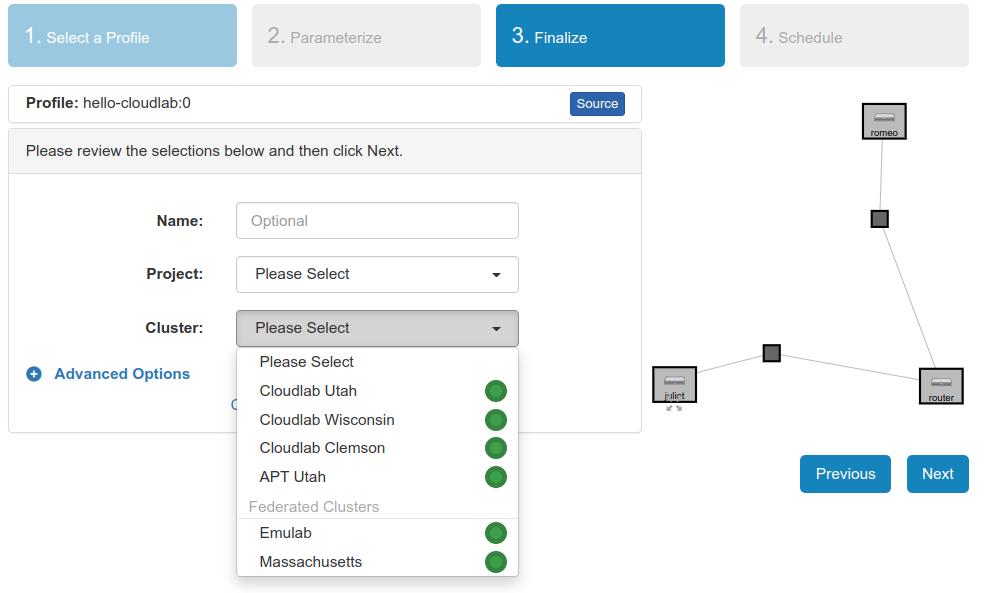
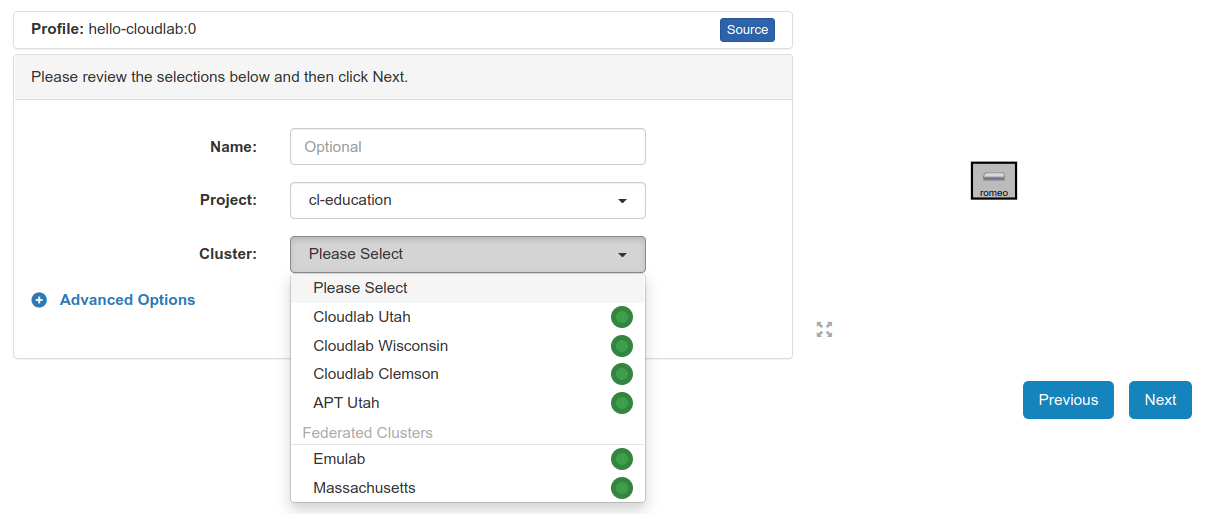
Update experiment

diff --git a/profile.py b/profile.py
@@ -18,7 +18,7 @@ pc = portal.Context()
 request = pc.makeRequestRSpec()
 
 # Set up first host - romeo
-node_romeo = request.XenVM("romeo")
+node_romeo = request.RawPC("romeo")
 node_romeo.startVNC()
 
 # Print the RSpec to the enclosing page.

diff --git a/index.md b/index.md
@@ -107,7 +107,7 @@ This property can be exploited for authenticating login to a remote machine. Fir
 1. You use a special argument with your SSH command to let your SSH application know that you are going to use a key, and the location of your private key. If the private key is protected by a passphrase, you may be prompted to enter the passphrase (this is not a password for the remote machine, though.)
 2. The machine you are logging in to will ask your SSH client to "prove" that it owns the (secret) private key that matches an authorized public key. To do this, the machine will send a random message to you.
 3. Your SSH client will encrypt the random message with the private key and send it back to the remote machine.
-5. The remote machine will decrypt the message with your public key. If the decrypted message matches the message it sent you, it has "proof" that you are in possession of the private key for that key pair, and will grant you access (without using an account password on the remote machine.)
+4. The remote machine will decrypt the message with your public key. If the decrypted message matches the message it sent you, it has "proof" that you are in possession of the private key for that key pair, and will grant you access (without using an account password on the remote machine.)
 
 (Of course, this relies on you keeping your private key a secret.)
 
@@ -200,57 +200,155 @@ Whenever you run an experiment on CloudLab, you will
 
 Also, when you finish an experiment and have saved all the data somewhere safe, you will _delete_ the resources in your experiment to free them for use by other experimenters.
 
-### Exercise - Open a profile
+### Exercise - Open and instantiate a profile
 
 For this experiment, we will use the CloudLab profile available at the following link: https://www.cloudlab.us/p/cl-education/hello-cloudlab
 
 You'll see a brief description of the profile:
 
 ![Description of profile.](images/profile-1.png)
-### Exercise - Instantiate a profile
+
+Click "Next". On the following page, you'll see a diagram of your experiment topology (on the right - in this case, a single host named "romeo"),
+and on the left you'll be asked to select the "Cluster" on which you want your experiment to run:
+
+![Cluster selection.](images/profile-3.png)
+
+Unless otherwise specified, these experiments can run on any cluster. However, since CloudLab is a shared resource, on some occasionas the cluster you select might not have enough available resources to support your experiment. The status indicator next to each cluster tells you roughly how heavily utilized it is at the moment - green indicates that there are not many users, orange means heavy load, and red means that it is almost fully utilized. You are more likely to be successful if you choose a cluster with a green indicator.
+
+After you select a cluster, you can leave the "Name" field blank, or give your experiment a name - it's your choice. Then, click "Next".
+
+![Set experiment duration.](images/profile-4.png)
+
+On the last page, you'll be asked to set the duration of your experiment. At the end of this duration, your resources will be deleted automatically - so make sure to give yourself enough time to finish.
+
+You can leave the start date/time on this page blank if you are ready to work on the experiment right now. 
+
+When you have made all your choices, click "Finish" to ask CloudLab to reserve resources according to your configuration.
 
 ### Exercise - Wait for resources to be ready 
 
-Once you have successfully instantiated a profile, it will still take some time before your resources are ready for you to log in. To see resource status...
+Once you have successfully instantiated a profile, it will still take some time before your resources are ready for you to log in.
 
-This may take some time. 
+As your resources come online, you'll see their progress on the CloudLab experiment page:
 
-> **What if it fails?** If the CloudLab site is unable to bring up the resources you requested (even if the request "finishes"), it may say "Resources at X have failed" on the slice page, and you may get an email telling you that your VMs failed to boot. If this happens, delete the resources (use the "Delete" button at the bottom of the canvas). Then, try to reserve your resources again with a different aggregate.
+![Instantiation progress.](images/instantiate-0.png)
+
+As time passes, you will see a diagram of your experiment, but initially the hosts in the experiment will be colored yellow - this indicates that they're not ready to use yet. There's also a small "-" icon in the top right corner of the host - this indicates that it is not yet fully configured.
+
+![Instantiation progress.](images/instantiate-1.png)
+
+It can take a while for hosts to boot up and load their configurations - you may want to step away or work on something else for 15-20 minutes and then check back.
+
+At some point, the host will turn green, but it may have a "." icon in the top right - this indicates that it is still being configured.
+
+![Instantiation progress.](images/instantiate-2.png)
+
+
+Eventually, the host will be "green" with a "✓" icon in the top right corner. This shows that it is ready to use, and you can go on to the next step.
+
+![Instantiation complete.](images/instantiate-3.png)
+
+> **What if it fails?** If the CloudLab site is unable to bring up the resources you requested, the hosts will turn red instead of green. If this happens, delete the resources (use the red "Terminate" button). Then, try to reserve your resources again - you may want to try a different cluster, in case the problem was with the specific cluster that you used.
 
 ### Exercise - Log in to resources
 
-Once all of your resources are ready to log in, you will need to find out the details of each host (its hostname and the port number that you will use for SSH access). To get this information, click on "Details" at the bottom of the canvas. This will take you to a page that lists login details for each host in your experiment.
+Once the host in your experiment is "green" and has a "✓" icon in the top right corner, it is ready for you to log in! In this exercise, you'll practice accessing the host three ways:
 
-To log in to a host on GENI, you will need to specify your GENI username, the hostname of the host, the port number, and the location of your private key. Open a terminal, and run
+* Using the terminal in the CloudLab web portal
+* Using your own terminal application
+* Using VNC (for a graphical interface)
 
-```
-ssh USERNAME@HOSTNAME -p PORT -i /PATH/TO/id_rsa
-```
+#### Using the terminal in the CloudLab web portal
 
-where `USERNAME` is your GENI username, `HOSTNAME` is the hostname of the VM you are logging in to, `PORT` is the port number specified in the portal for that VM, and `/PATH/TO/id_rsa` is the full path to the private half of your key pair. (The default location is `~/.ssh/id_rsa` if you generated your key with `ssh-keygen` and didn't specify a different location.)
+The CloudLab web interface includes a terminal utility with which you can access a "shell" and run commands on any host in your experiment. To access it, click on the host and choose "Shell" from the menu:
 
-For example, if the GENI Portal shows the following login details for me for the "romeo" host in my experiment:
+![Open a shell on a CloudLab host.](images/cl-shell.png)
 
-![](1-jacks-login-details.png)
+This will open a new "tab" in the CloudLab experiment page, with the same name as the hostname. At this tab, you'll have an interactive terminal session on the host. You can type commands into this terminal session and see the output.
 
-and my key was located in the default location, `~/.ssh/id_rsa`, I would run
+![A shell on a remote host.](images/cl-shell-open.png)
 
-```
-ssh ffund01@pc3.instageni.maxgigapop.net -p 25107 -i ~/.ssh/id_rsa
-```
-
-in a terminal window to log in.
-
-The first time you log in to each new host, your computer will display a warning similar to the following:
+Try typing
 
 ```
-The authenticity of host '[pc3.instageni.maxgigapop.net]:25107 ([206.196.180.202]:25107)' can't be established.
+echo "Hello world"
+```
+
+in this terminal shell, and observe the output.
+
+![Command and output.](images/cl-shell-cmd.png)
+
+It's helpful to know how to copy and paste from/to this terminal. (For some experiments, you may want to copy commands from the instructions and paste them directly into the terminal. You may also want to copy command output from the terminal into your notes or a lab report.)
+
+* Try selecting the `echo` command above and copying it. Then, right click in the shell you have open on the "romeo" host and select "Paste".
+* Try selecting a few lines of text in the shell, then right click and select "Copy". Open a text editor or document editor, and paste the text you have copied.
+
+When you are done using this shell, you can close it using the "x" icon on the tab:
+
+![Closing a terminal.](images/cl-shell-close.png)
+
+#### Using your own terminal application
+
+The terminal in the CloudLab web portal is handy, but you may find it more convenient to use your own terminal. 
+
+Click on the "List view" tab, and note the line corresponding to the host you want to access - in this case, the host named "romeo".  Copy the text in the "SSH" command section:
+
+![Get SSH details.](images/native-shell.png)
+
+Note that this text is a hyperlink, and will prompt you to open an application if you click on it. *Don't* click on it - just select it and copy it.
+
+Open the terminal you installed earlier, and paste this SSH command into the terminal window, but don't run it yet!
+
+![SSH command.](images/terminal-cmd-0.png)
+
+If you have saved your SSH key in the default location, this command will work directly. But if you specified a non-default location for your SSH key, you'll need to modify the command to include the path to your own SSH key. (You should have noted this path in "Exercise - Set up SSH keys.")
+
+In your terminal, add a `-i` and then the path to your SSH key just after the word `ssh` in the command. For example, if my key was located in, `~/.ssh/id_rsa`, I would use
+
+![SSH command with key path.](images/terminal-cmd-1.png)
+
+Then, hit Enter to run the command. 
+
+The first time you log in to each new host, your computer may display a warning similar to the following:
+
+```
+The authenticity of host '[amd101.utah.cloudlab.us]:25107 ([206.196.180.202]:25107)' can't be established.
 RSA key fingerprint is SHA256:FUNco2udT/ur2rNb2NnZnUc8s2v6xvNdOFhFFxcWGYA.
 Are you sure you want to continue connecting (yes/no)?
 ```
 
-and you will have to type the word `yes` and hit Enter to continue. If you have specified your key path and other details correctly, it won't ask you for a password when you log in to the node. (It may ask for the passphrase for your private key if you've set one.)
+and you will have to type the word `yes` and hit Enter to continue. If you have specified your key path and other details correctly, it won't ask you for a password when you log in to the node. (It may ask for the _passphrase_ for your private key if you've set one.)
 
+Try typing
+
+```
+echo "Hello world"
+```
+
+in this terminal shell, and observe the output. Then, you can type 
+
+```
+exit
+```
+
+to close the terminal session.
+
+#### Using VNC
+
+Finally, you can also get a graphical user interface on the remote host using a remote access protocol called VNC.
+
+In the "Topology view" tab, click on the host again, and choose the option to "Open VNC Window".
+
+![Open a VNC session.](images/vnc-0.png)
+
+
+### Release resources
+
+Part of being a good CloudLab citizen is releasing resources when you're not using them anymore. When you have finished everything you need to do in an experiment and retrieved all data from your remote hosts, use the "Terminate" button  to delete your resources and free them for other experimenters.
+
+![Terminate experiment.](images/delete-resources.png)
+
+Once you delete your resources, you will no longer have access to them, and any data on them will be deleted. Make sure that you have saved *everything* before you delete your resources.
 
 
 ## Appendix - view, edit, or add keys on CloudLab
